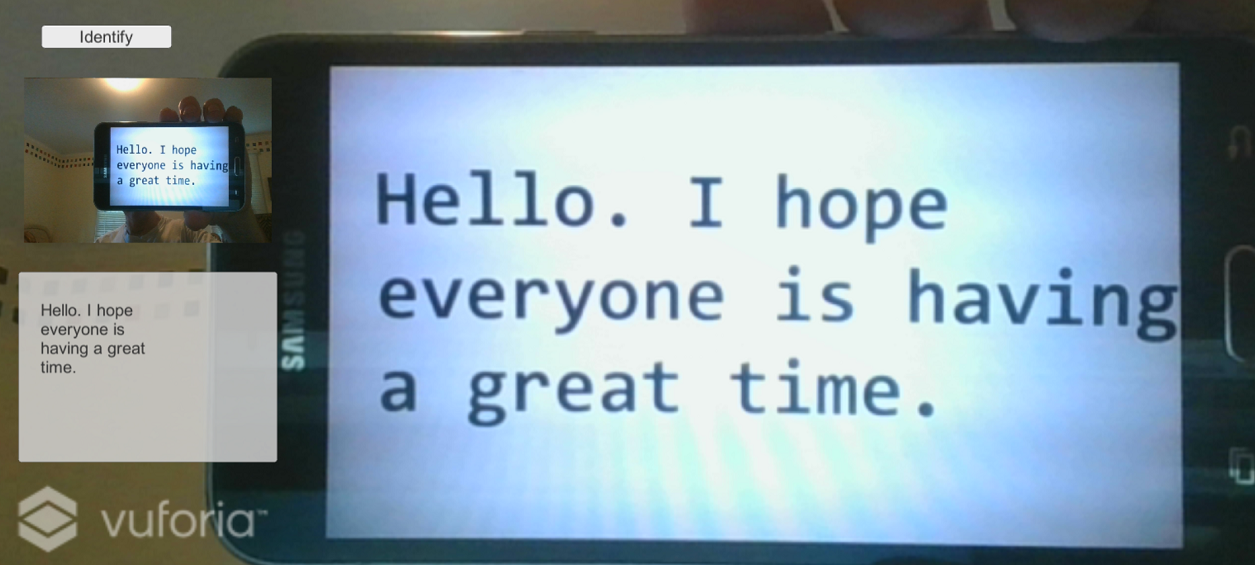
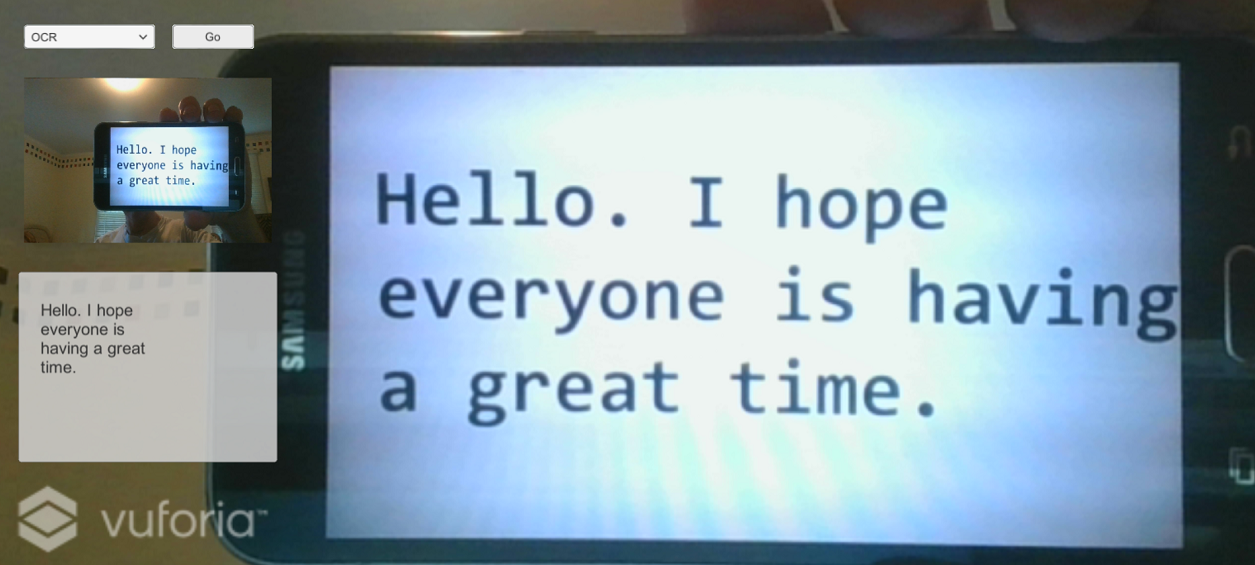
add dropdown

Changed region(s): [[0.0, 0.0301, 0.2175, 0.0903]]

diff --git a/05-OCR/README.md b/05-OCR/README.md
@@ -8,10 +8,19 @@ This demo builds upon the previous demo by showing how to call the Computer Visi
 
 Follow these instructions to deploy the application when using the emulator:
 
+1. Add option
+
+   - Select **ddAction**
+   - Add an **OCR** option
+
+   ![add option](setup/add-option-ocr-labelled.png)
+
 1. Add scripts
+
    - Copy **`<working-dir>`\reality-augmentation-using-cognitive-services\05-OCR\scripts\OCRAPIResults.cs** to **`<working-dir>`\HoloWorld\Assets\Scripts**
 
 1. Edit scripts
+
    - Edit **`<working-dir>`\HoloWorld\assets\Scripts\VisionAPIUtils.cs** by adding a new function called **MakeOCRRequest** at the bottom of the **VisionAPIUtils** class:
    ```
    public static IEnumerator MakeOCRRequest(byte[] bytes, string textComponent, Type type)
@@ -39,10 +48,11 @@ Follow these instructions to deploy the application when using the emulator:
 	   }
    }
    ```
-   - Edit **`<working-dir>`\HoloWorld\assets\Scripts\SetImageLabels.cs** by commenting out the call to **MakeAnalysisRequest** and adding a new line below it that calls **MakeOCRRequest** as follows:
+   - Edit **`<working-dir>`\HoloWorld\assets\Scripts\SetImageLabels.cs** by adding a new case statement that calls **MakeOCRRequest** as follows:
    ```
-   //StartCoroutine(VisionAPIUtils.MakeAnalysisRequest(bytes, "txtImageInfo", typeof(Text)));
-   StartCoroutine(VisionAPIUtils.MakeOCRRequest(bytes, "txtImageInfo", typeof(Text)));
+	case 1: // OCR
+		StartCoroutine(VisionAPIUtils.MakeOCRRequest(bytes, "txtImageInfo", typeof(Text)));
+		break;
    ```
    - Menu **File** > **Save All**
 
@@ -54,4 +64,4 @@ Follow these instructions to deploy the application when using the emulator:
 
   ![play](setup/play-labelled-resized-66.png)
 
-  - Click **Run**. If you hold some text in front of your computer's camera and click the **Identify** button, you will see the text extracted from the image. As an example, you can use a printout or a phone capture of the text image found at **`<working-dir>`\reality-augmentation-using-cognitive-services\05-OCR\images\text.png**.
+  - Click **Run**. If you hold some text in front of your computer's camera, select **OCR**, and click the **Go** button, you will see the text extracted from the image. As an example, you can use a printout or a phone capture of the text image found at **`<working-dir>`\reality-augmentation-using-cognitive-services\05-OCR\images\text.png**.
